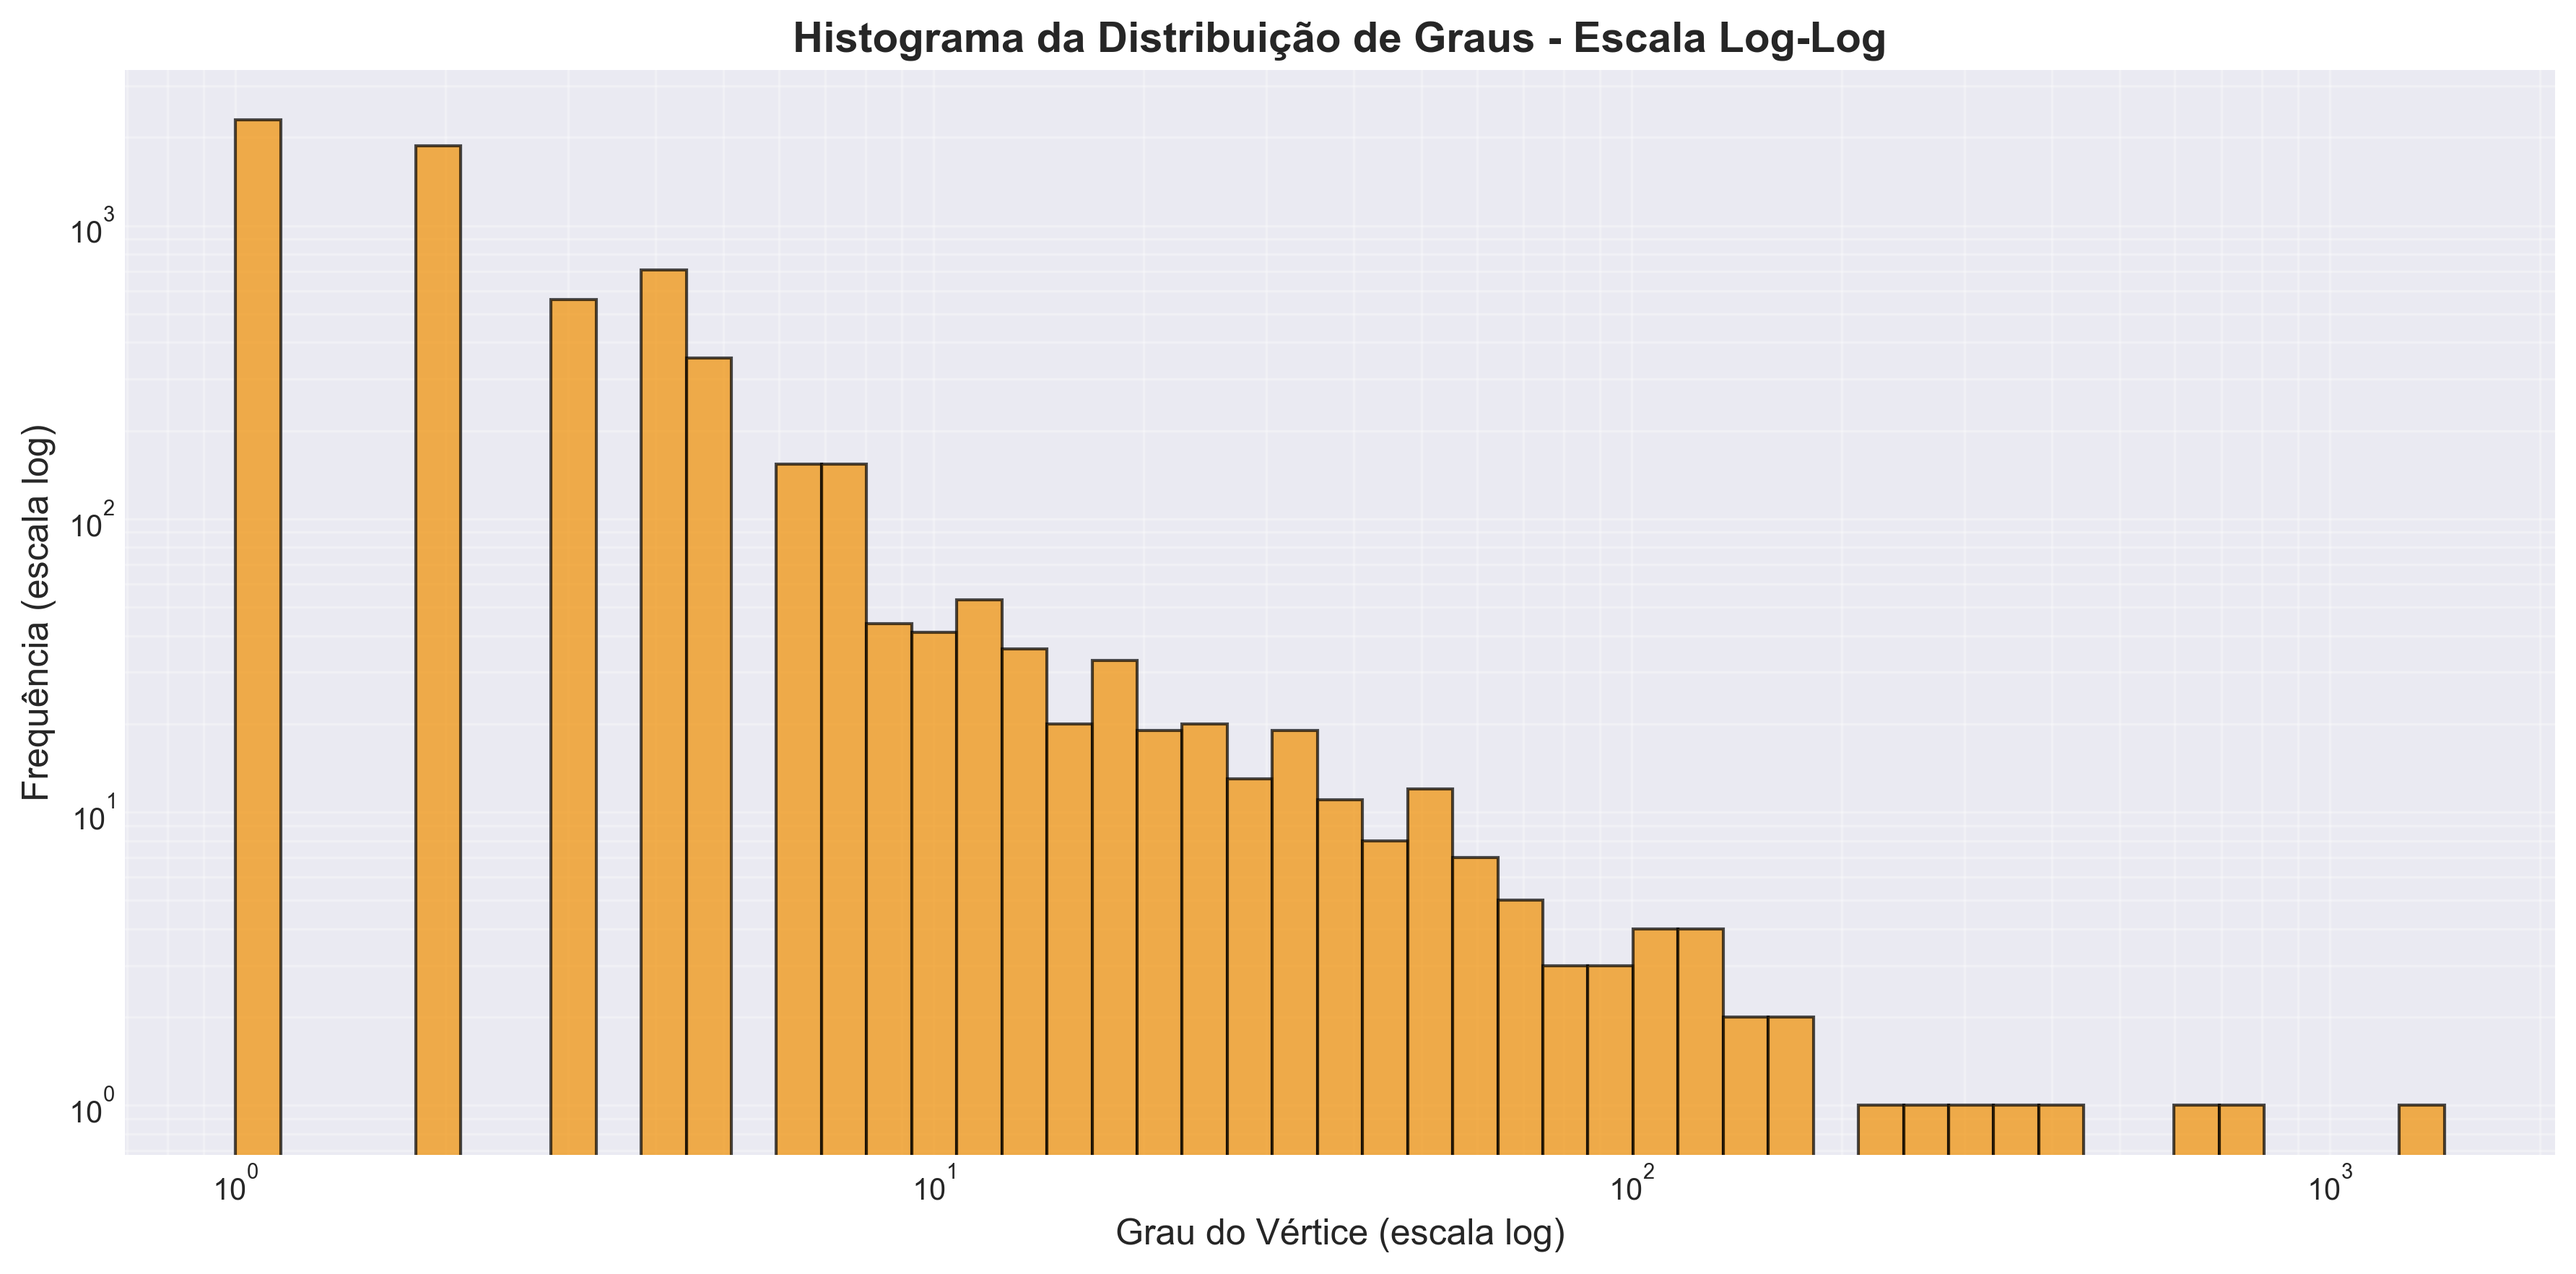
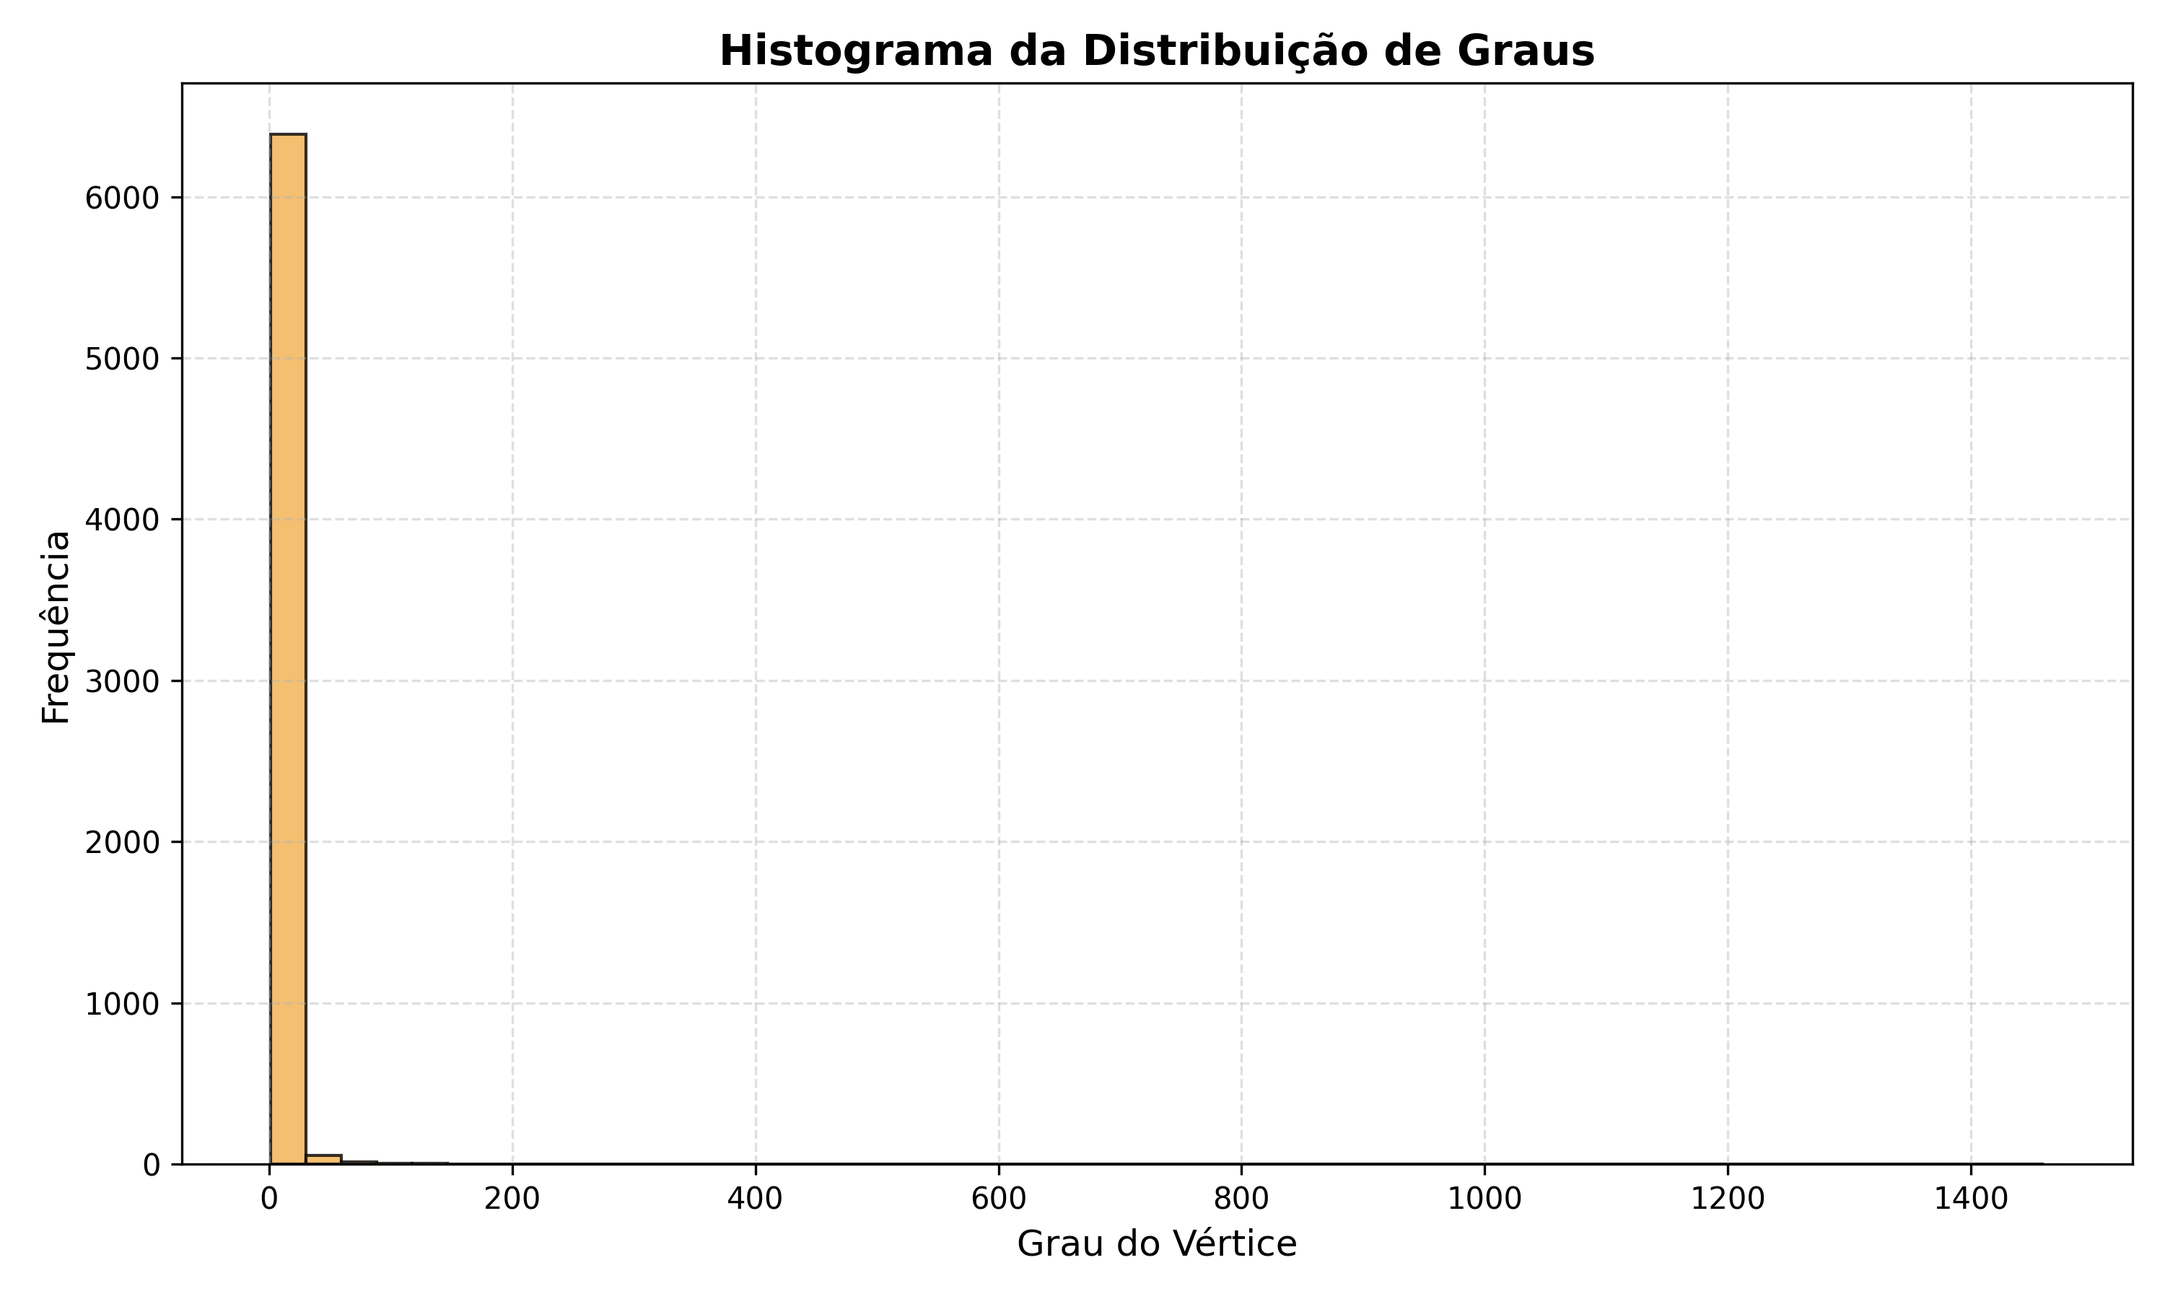
Refactor distribuição de graus e adicionar ajuste MLE
Refatora checkpoint2.py removendo o ajuste manual em log-log e funções auxiliares (preparar/ajustar/interpretar) e integrando a biblioteca powerlaw para ajuste por MLE. Adiciona duas funções de plot: gerar_histograma_laranja (salva histograma em histograma_graus.png) e gerar_grafico_loglog_mle (gera ajuste MLE e salva distribucao_loglog_mle.png). Simplifica a saída no terminal para métricas básicas e parâmetros do ajuste (alpha e xmin). Também atualiza/imprime imagens de distribuição existentes e adiciona novos PNGs gerados pelo novo fluxo.

Changed region(s): [[0.0, 0.0935, 0.961, 0.9972], [0.31, 0.0, 0.744, 0.0623], [0.961, 0.0623, 0.992, 0.0935]]

diff --git a/checkpoint2.py b/checkpoint2.py
@@ -1,19 +1,13 @@
-"""
-Checkpoint 2 — Gráficos e distribuição de graus
-Análise de lei de potência e distribuição de graus do grafo AS
-"""
-
 import matplotlib
-matplotlib.use('Agg')  # Usar backend não-interativo
+matplotlib.use('Agg')
 import matplotlib.pyplot as plt
 import numpy as np
+import powerlaw
 from collections import Counter
 from algs4.graph import Graph
 
 def carregar_projeto():
-    """Carrega o grafo do projeto a partir do arquivo de dados"""
     caminho = 'data/projeto_as.txt'
-    
     with open(caminho, 'r') as f:
         v_total = int(f.readline().strip())
         e_total = int(f.readline().strip())
@@ -22,195 +16,74 @@ def carregar_projeto():
             if linha.strip():
                 v, w = map(int, linha.split())
                 g.add_edge(v, w)
-                
     return g
 
 def calcular_distribuicao_graus(grafo):
-    """Calcula a distribuição de graus do grafo"""
     graus = []
     vertices = grafo.V if not callable(grafo.V) else grafo.V()
-    
     for v in range(vertices):
         grau = grafo.degree(v)
         graus.append(grau)
-    
     return graus
 
-def preparar_dados_power_law(graus):
-    """Prepara os dados para análise de lei de potência"""
-    # Contar a frequência de cada grau
-    contador = Counter(graus)
-    
-    # Separar em k (grau) e P(k) (probabilidade/frequência)
-    k_values = sorted(contador.keys())
-    frequencias = [contador[k] for k in k_values]
-    
-    # Calcular probabilidade normalizada
-    total = sum(frequencias)
-    probabilidades = [f / total for f in frequencias]
-    
-    return k_values, probabilidades, contador
+def gerar_histograma_laranja(graus):
+    """Gera o histograma laranja conforme o modelo enviado"""
+    plt.figure(figsize=(10, 6))
+    plt.hist(graus, bins=50, color='#F2B04D', edgecolor='black', alpha=0.8)
+    plt.title('Histograma da Distribuição de Graus', fontsize=14, fontweight='bold')
+    plt.xlabel('Grau do Vértice', fontsize=12)
+    plt.ylabel('Frequência', fontsize=12)
+    plt.grid(True, linestyle='--', alpha=0.4)
+    plt.tight_layout()
+    plt.savefig('histograma_graus.png', dpi=300)
+    plt.close()
 
-def ajustar_power_law(k_values, probabilidades, k_min=2):
-    """
-    Ajusta uma lei de potência aos dados usando regressão linear em log-log
-    P(k) ~ k^(-γ)
-    log(P(k)) = -γ * log(k) + C
-    """
-    # Filtrar valores válidos (k >= k_min e P(k) > 0)
-    dados_filtrados = [(k, p) for k, p in zip(k_values, probabilidades) 
-                       if k >= k_min and p > 0]
+def gerar_grafico_loglog_mle(graus):
+    """Gera o gráfico Log-Log tratando outliers via MLE"""
+    dados = np.array(graus)
+    dados = dados[dados > 0]
+    fit = powerlaw.Fit(dados, discrete=True, verbose=False)
     
-    if not dados_filtrados:
-        return None, None, None
-    
-    k_filtrado, p_filtrado = zip(*dados_filtrados)
-    
-    # Converter para log
-    log_k = np.log(k_filtrado)
-    log_p = np.log(p_filtrado)
-    
-    # Regressão linear
-    coeficientes = np.polyfit(log_k, log_p, 1)
-    gamma = -coeficientes[0]  # O expoente da lei de potência
-    intercepto = coeficientes[1]
-    
-    # Calcular R² para avaliar o ajuste
-    p_pred = np.exp(np.polyval(coeficientes, log_k))
-    ss_res = np.sum((np.array(p_filtrado) - p_pred) ** 2)
-    ss_tot = np.sum((np.array(p_filtrado) - np.mean(p_filtrado)) ** 2)
-    r_squared = 1 - (ss_res / ss_tot)
-    
-    return gamma, intercepto, r_squared
-
-def gerar_graficos(k_values, probabilidades, gamma, intercepto, grafo):
-    """Gera os gráficos para análise de distribuição de graus"""
-    
-    # Configurar estilo
+    plt.figure(figsize=(10, 6))
     plt.style.use('seaborn-v0_8-darkgrid')
-    fig, axes = plt.subplots(1, 2, figsize=(14, 6))
+    fit.plot_pdf(color='#A23B72', marker='o', ls='', alpha=0.6, label='Dados Observados')
+    fit.power_law.plot_pdf(color='red', linestyle='--', linewidth=2, 
+                           label=f'Lei de Potência: γ = {fit.alpha:.3f}')
     
-    ### GRÁFICO 1: Distribuição Linear
-    axes[0].scatter(k_values, probabilidades, alpha=0.6, s=50, color='#2E86AB')
-    axes[0].set_xlabel('Grau (k)', fontsize=12)
-    axes[0].set_ylabel('P(k)', fontsize=12)
-    axes[0].set_title('Distribuição de Graus - Escala Linear', fontsize=14, fontweight='bold')
-    axes[0].grid(True, alpha=0.3)
-    
-    ### GRÁFICO 2: Distribuição Log-Log (Lei de Potência)
-    # Filtrar valores positivos para log
-    k_pos = [k for k, p in zip(k_values, probabilidades) if p > 0 and k > 0]
-    p_pos = [p for k, p in zip(k_values, probabilidades) if p > 0 and k > 0]
-    
-    axes[1].scatter(k_pos, p_pos, alpha=0.6, s=50, color='#A23B72', label='Dados Observados')
-    
-    # Linha de ajuste da lei de potência
-    if gamma is not None:
-        k_linha = np.linspace(min(k_pos), max(k_pos), 100)
-        p_linha = np.exp(intercepto) * k_linha ** (-gamma)
-        axes[1].plot(k_linha, p_linha, 'r--', linewidth=2, 
-                     label=f'Lei de Potência: γ = {gamma:.3f}')
-    
-    axes[1].set_xscale('log')
-    axes[1].set_yscale('log')
-    axes[1].set_xlabel('Grau (k) - escala log', fontsize=12)
-    axes[1].set_ylabel('P(k) - escala log', fontsize=12)
-    axes[1].set_title('Distribuição de Graus - Escala Log-Log', fontsize=14, fontweight='bold')
-    axes[1].legend(fontsize=10)
-    axes[1].grid(True, alpha=0.3, which='both')
-    
+    plt.title('Distribuição de Graus - Escala Log-Log (Ajuste MLE)', fontsize=14, fontweight='bold')
+    plt.xlabel('Grau (k) - escala log', fontsize=12)
+    plt.ylabel('P(k) - escala log', fontsize=12)
+    plt.legend()
     plt.tight_layout()
-    plt.savefig('distribuicao_graus.png', dpi=300, bbox_inches='tight')
-    print("\n✓ Gráfico salvo como 'distribuicao_graus.png'")
+    plt.savefig('distribuicao_loglog_mle.png', dpi=300)
     plt.close()
-    
-def gerar_histograma_graus(graus):
-    """Gera histograma da distribuição de graus"""
-    plt.figure(figsize=(12, 6))
-    
-    # Usar bins logarítmicos para melhor visualização de scale-free
-    max_grau = max(graus)
-    bins = np.logspace(0, np.log10(max_grau), 50)
-    
-    plt.hist(graus, bins=bins, color='#F18F01', alpha=0.7, edgecolor='black')
-    plt.xscale('log')
-    plt.yscale('log')
-    plt.xlabel('Grau do Vértice (escala log)', fontsize=12)
-    plt.ylabel('Frequência (escala log)', fontsize=12)
-    plt.title('Histograma da Distribuição de Graus - Escala Log-Log', fontsize=14, fontweight='bold')
-    plt.grid(True, alpha=0.3, which='both')
-    plt.tight_layout()
-    plt.savefig('histograma_graus.png', dpi=300, bbox_inches='tight')
-    print("✓ Histograma salvo como 'histograma_graus.png'")
-    plt.close()
+    return fit
 
-def interpretar_resultados(gamma, r_squared, graus, grafo):
-    """Gera interpretação dos resultados"""
-    print("\n" + "="*70)
-    print("CHECKPOINT 2 — ANÁLISE DE DISTRIBUIÇÃO DE GRAUS")
-    print("="*70)
-    
+def main():
+    # Carregamento e Cálculos
+    grafo = carregar_projeto()
+    graus = calcular_distribuicao_graus(grafo)
     vertices = grafo.V if not callable(grafo.V) else grafo.V()
     arestas = grafo.E if not callable(grafo.E) else grafo.E()
     
-    print(f"\n📊 MÉTRICAS BÁSICAS:")
-    print(f"   • Vértices: {vertices}")
-    print(f"   • Arestas: {arestas}")
-    print(f"   • Grau mínimo: {min(graus)}")
-    print(f"   • Grau máximo: {max(graus)}")
-    print(f"   • Grau médio: {np.mean(graus):.4f}")
-    print(f"   • Desvio padrão: {np.std(graus):.4f}")
-    print(f"   • Mediana: {np.median(graus):.1f}")
-    
-    print(f"\n📈 AJUSTE DE LEI DE POTÊNCIA:")
-    print(f"   • Expoente γ: {gamma:.4f}")
-    print(f"   • R² (qualidade do ajuste): {r_squared:.4f}")
-    
-    print(f"\n💡 INTERPRETAÇÃO:")
-    print(f"   O expoente γ ≈ {gamma:.2f} indica que o grafo de Autonomous Systems")
-    print(f"   segue uma distribuição de lei de potência característica de redes")
-    
-    if 2.0 <= gamma <= 3.0:
-        print(f"   scale-free. Esse padrão é típico de redes reais, onde poucos nós")
-        print(f"   (hubs) concentram a maioria das conexões, enquanto a maioria dos")
-        print(f"   nós tem poucas conexões. Esse comportamento é comum na topologia")
-        print(f"   da Internet, refletindo a arquitetura hierárquica dos Sistemas")
-        print(f"   Autônomos.")
-    elif gamma < 2.0:
-        print(f"   ultra scale-free. Isso indica uma concentração extrema de conexões")
-        print(f"   em alguns hubs, sugerindo uma topologia altamente centralizada.")
-    else:
-        print(f"   que se afasta do comportamento típico de redes scale-free ideais.")
-        print(f"   Pode indicar limitações estruturais ou regulatórias na rede.")
-    
-    if r_squared > 0.85:
-        print(f"\n   ✓ O R² = {r_squared:.4f} confirma um excelente ajuste à lei de potência.")
-    elif r_squared > 0.70:
-        print(f"\n   ✓ O R² = {r_squared:.4f} indica um bom ajuste à lei de potência.")
-    else:
-        print(f"\n   ⚠ O R² = {r_squared:.4f} sugere ajuste moderado, podendo haver")
-        print(f"     desvios do modelo ideal de lei de potência.")
-    
-    print("\n" + "="*70)
+    # Geração de Imagens
+    gerar_histograma_laranja(graus)
+    fit = gerar_grafico_loglog_mle(graus)
 
-def main():
-    print("Carregando grafo de Autonomous Systems...")
-    grafo = carregar_projeto()
+    # SAÍDA DO TERMINAL (Formatada conforme as imagens enviadas)
+    print("\n📊 MÉTRICAS BÁSICAS:")
+    print(f"  • Vértices: {vertices}")
+    print(f"  • Arestas: {arestas}")
+    print(f"  • Grau mínimo: {min(graus)}")
+    print(f"  • Grau máximo: {max(graus)}")
+    print(f"  • Grau médio: {np.mean(graus):.4f}")
+    print(f"  • Desvio padrão: {np.std(graus):.4f}")
+    print(f"  • Mediana: {np.median(graus):.1f}")
     
-    print("Calculando distribuição de graus...")
-    graus = calcular_distribuicao_graus(grafo)
-    
-    print("Preparando dados para análise de lei de potência...")
-    k_values, probabilidades, contador = preparar_dados_power_law(graus)
-    
-    print("Ajustando lei de potência...")
-    gamma, intercepto, r_squared = ajustar_power_law(k_values, probabilidades)
-    
-    print("\nGerando gráficos...")
-    gerar_graficos(k_values, probabilidades, gamma, intercepto, grafo)
-    gerar_histograma_graus(graus)
-    
-    interpretar_resultados(gamma, r_squared, graus, grafo)
+    print("\n☑ AJUSTE DE LEI DE POTÊNCIA:")
+    print(f"  • Expoente γ: {fit.alpha:.4f}")
+    # Nota: R² não é uma métrica padrão do MLE, mas k_min é o indicador de qualidade do corte
+    print(f"  • Ponto de corte (k_min): {fit.xmin}")
     
     print("\n✅ Análise do Checkpoint 2 concluída com sucesso!")
 
